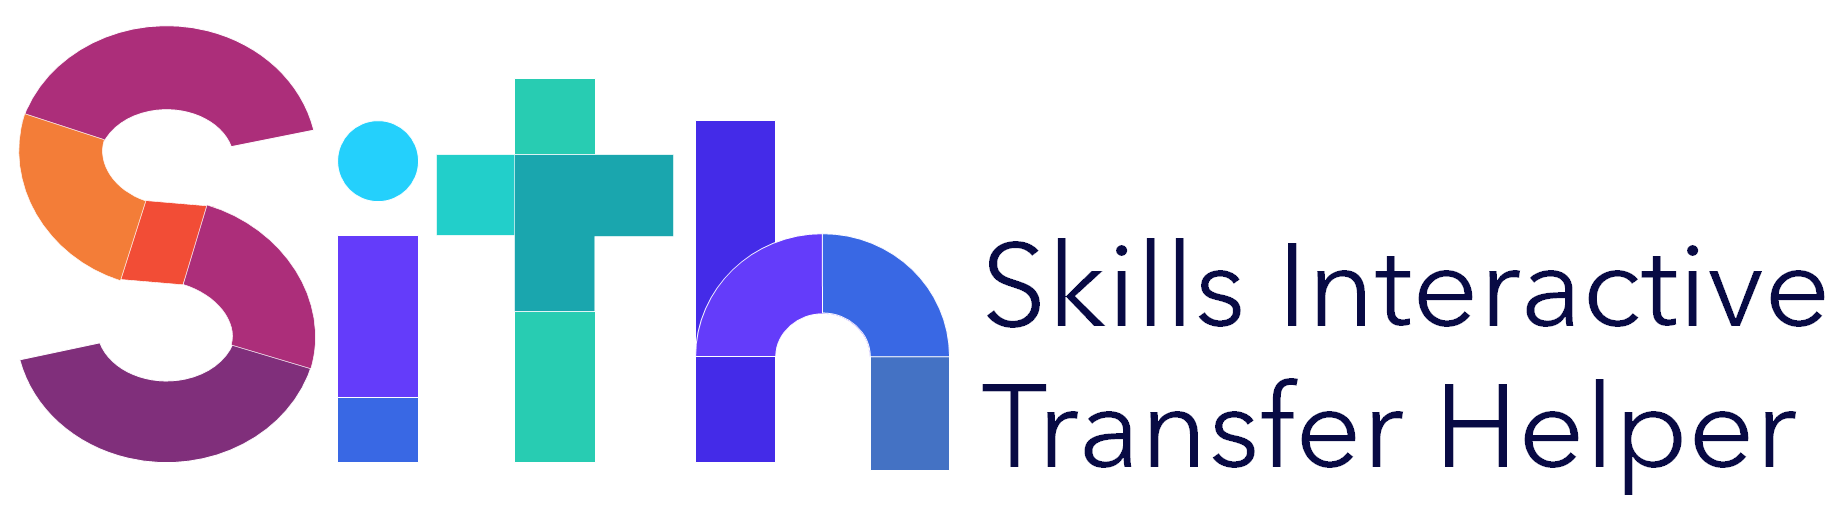
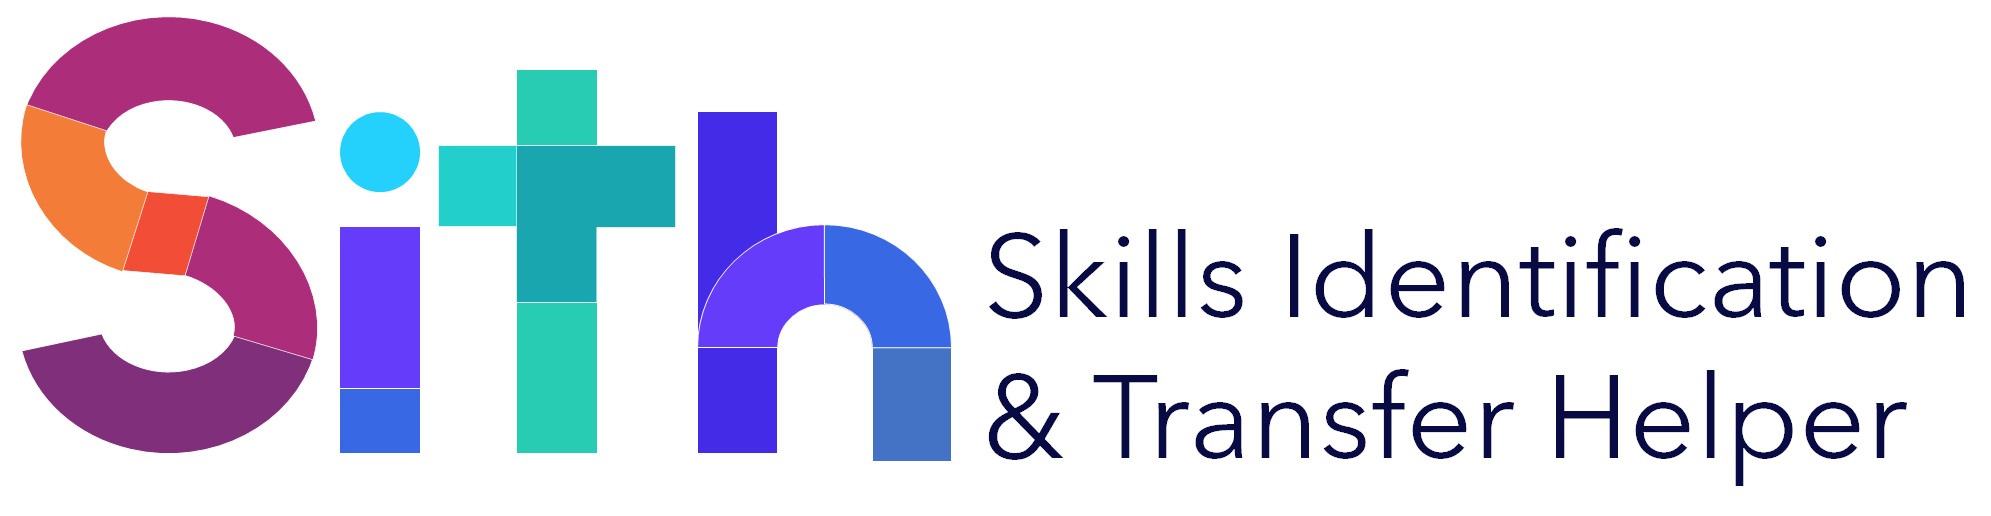
Fixes name of SITH

Changed region(s): [[0.0, 0.093, 0.9875, 0.9612], [0.0309, 0.031, 0.1234, 0.124], [0.0, 0.6512, 0.0617, 0.6822]]

diff --git a/src/pages/SITH.vue b/src/pages/SITH.vue
@@ -13,7 +13,7 @@
           />
         </div>
         <div class="col">
-          <p><strong>Use the power of the SITH </strong> - (Skills Interactive Transfer Helper) to find relevant jobs based on your
+          <p><strong>Use the power of the SITH </strong> - (Skills Identification & Transfer Helper) to find relevant jobs based on your
             existing skills and knowledge.
           </p>
           Check these great examples first:
